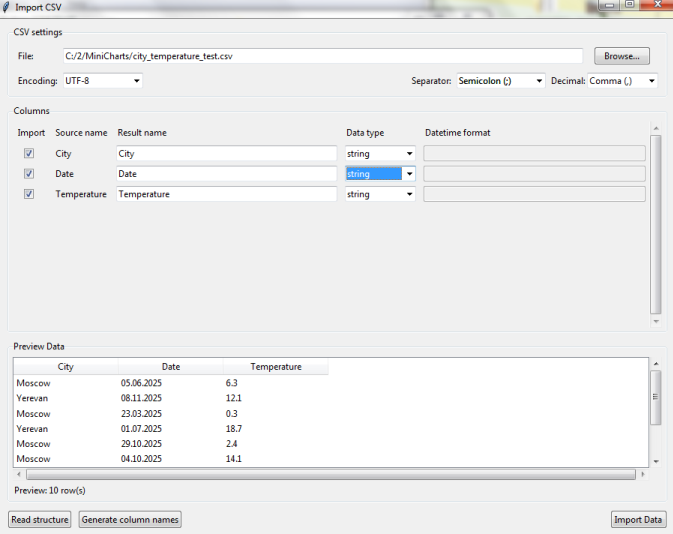
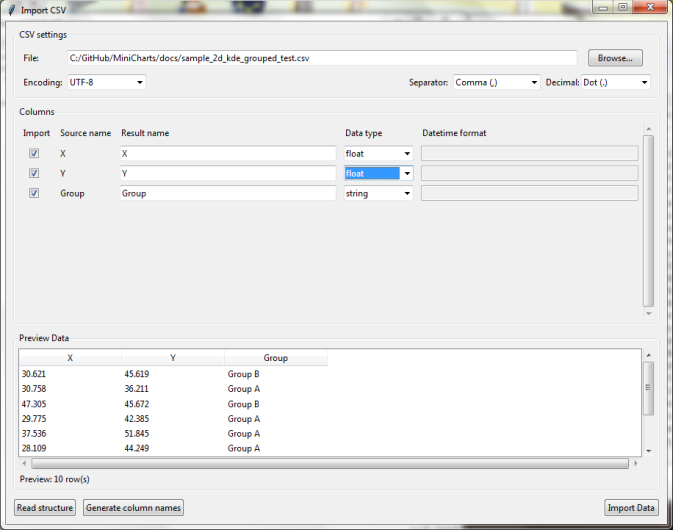
Fix doc

Changed region(s): [[0.0, 0.0, 1.0, 1.0], [0.5929, 0.1208, 0.7801, 0.1811], [0.0936, 0.3623, 0.2496, 0.3925]]

diff --git a/README.md b/README.md
@@ -37,7 +37,7 @@ python app.py
 5. Check the preview and click **Import Data**.
 
 ## Building a chart
-![Build](docs/build_graph.png)
+![Build](docs/box_ui.png)
 1. Select a chart type in the Report Builder window.
 2. Choose the columns and other settings required for the chart.
 3. Enter a title if necessary.
